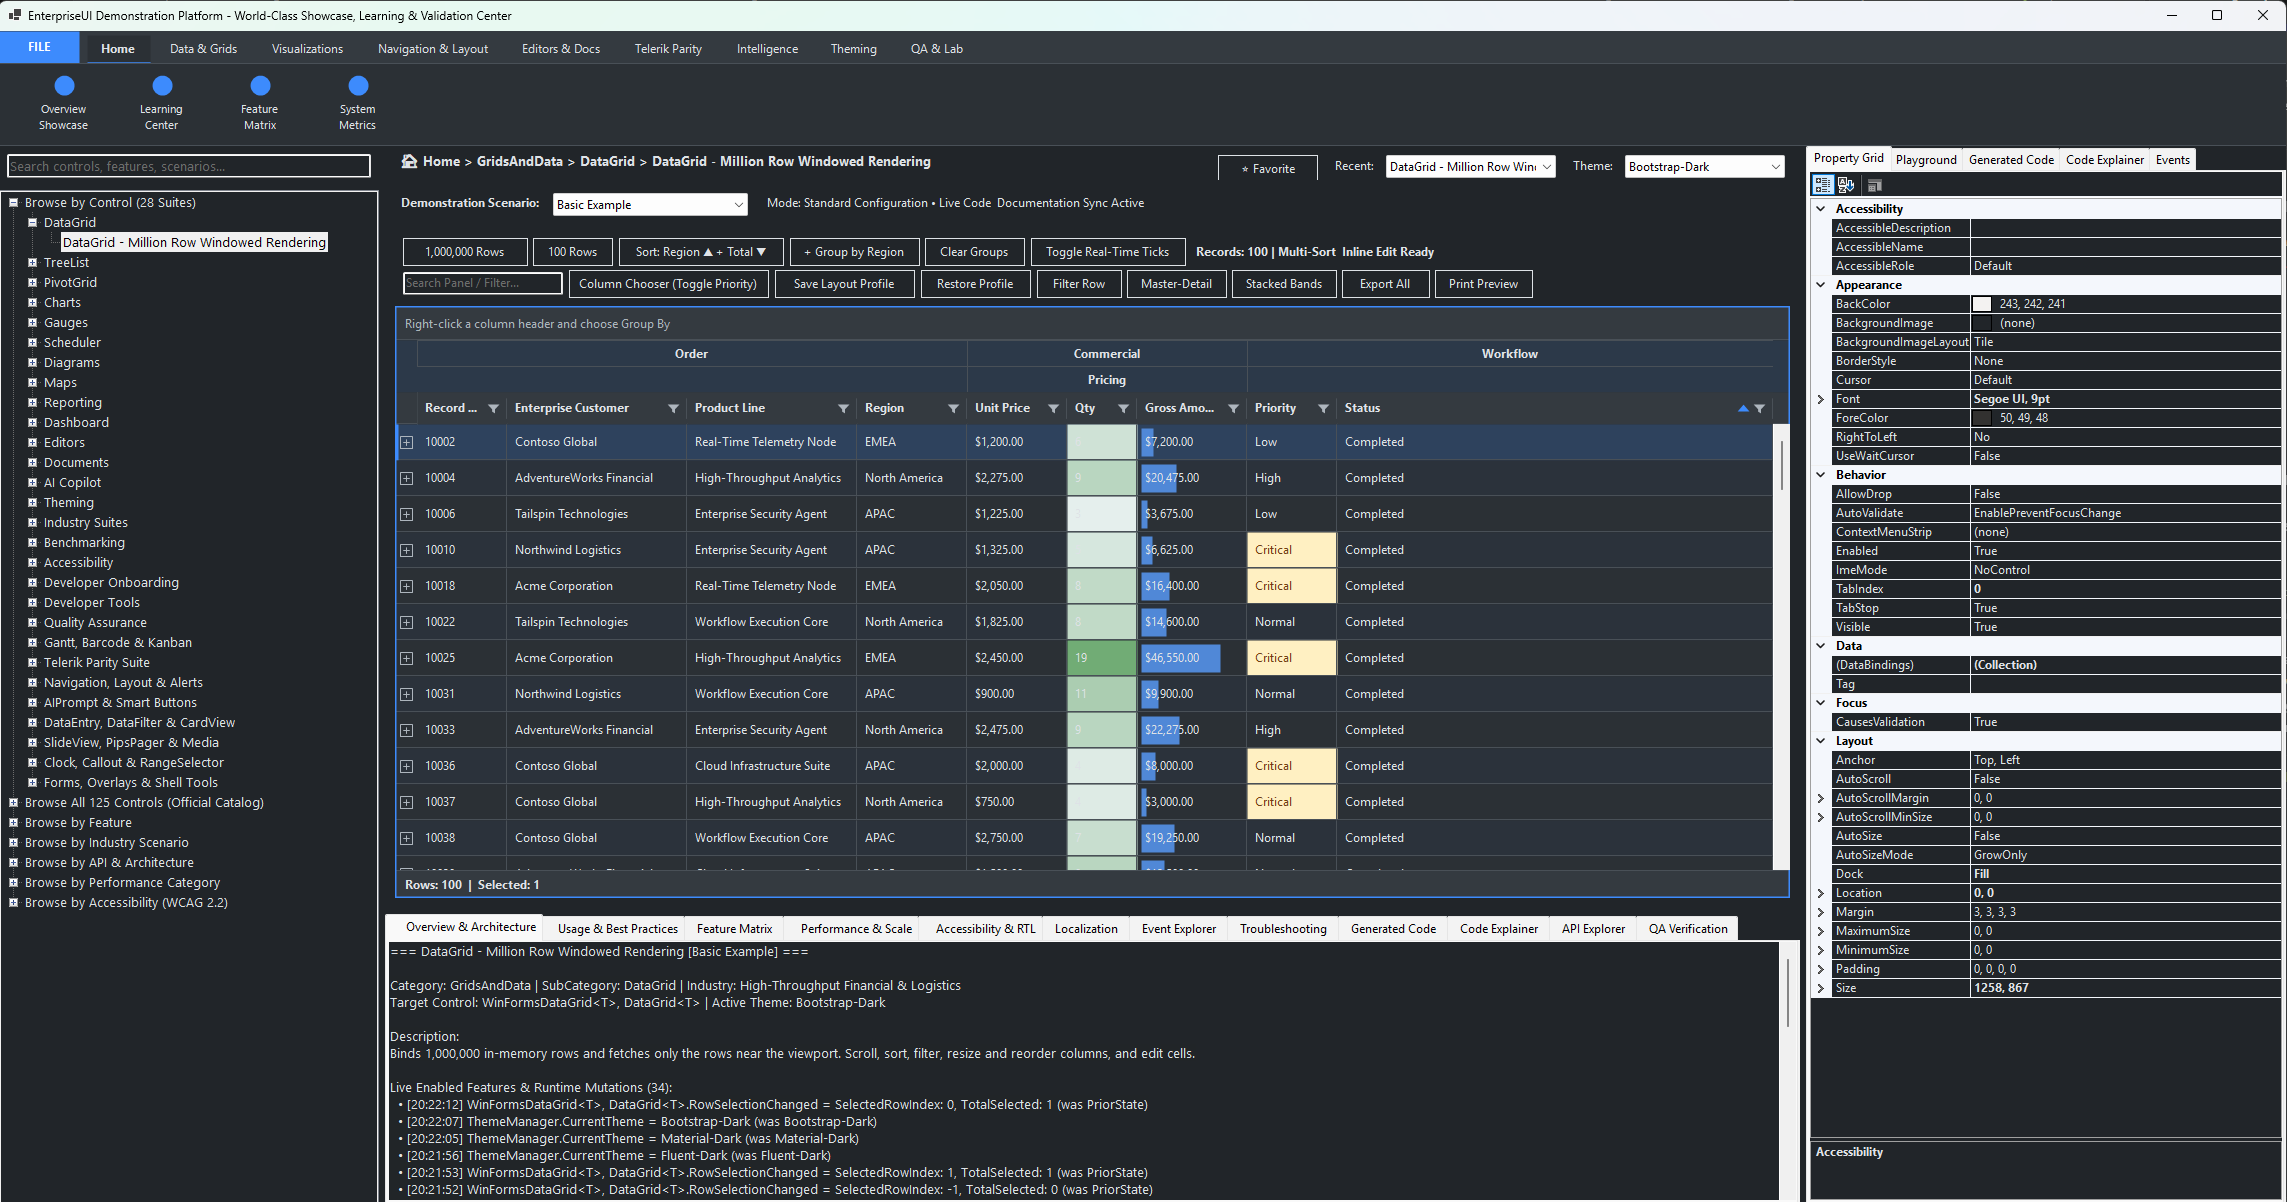
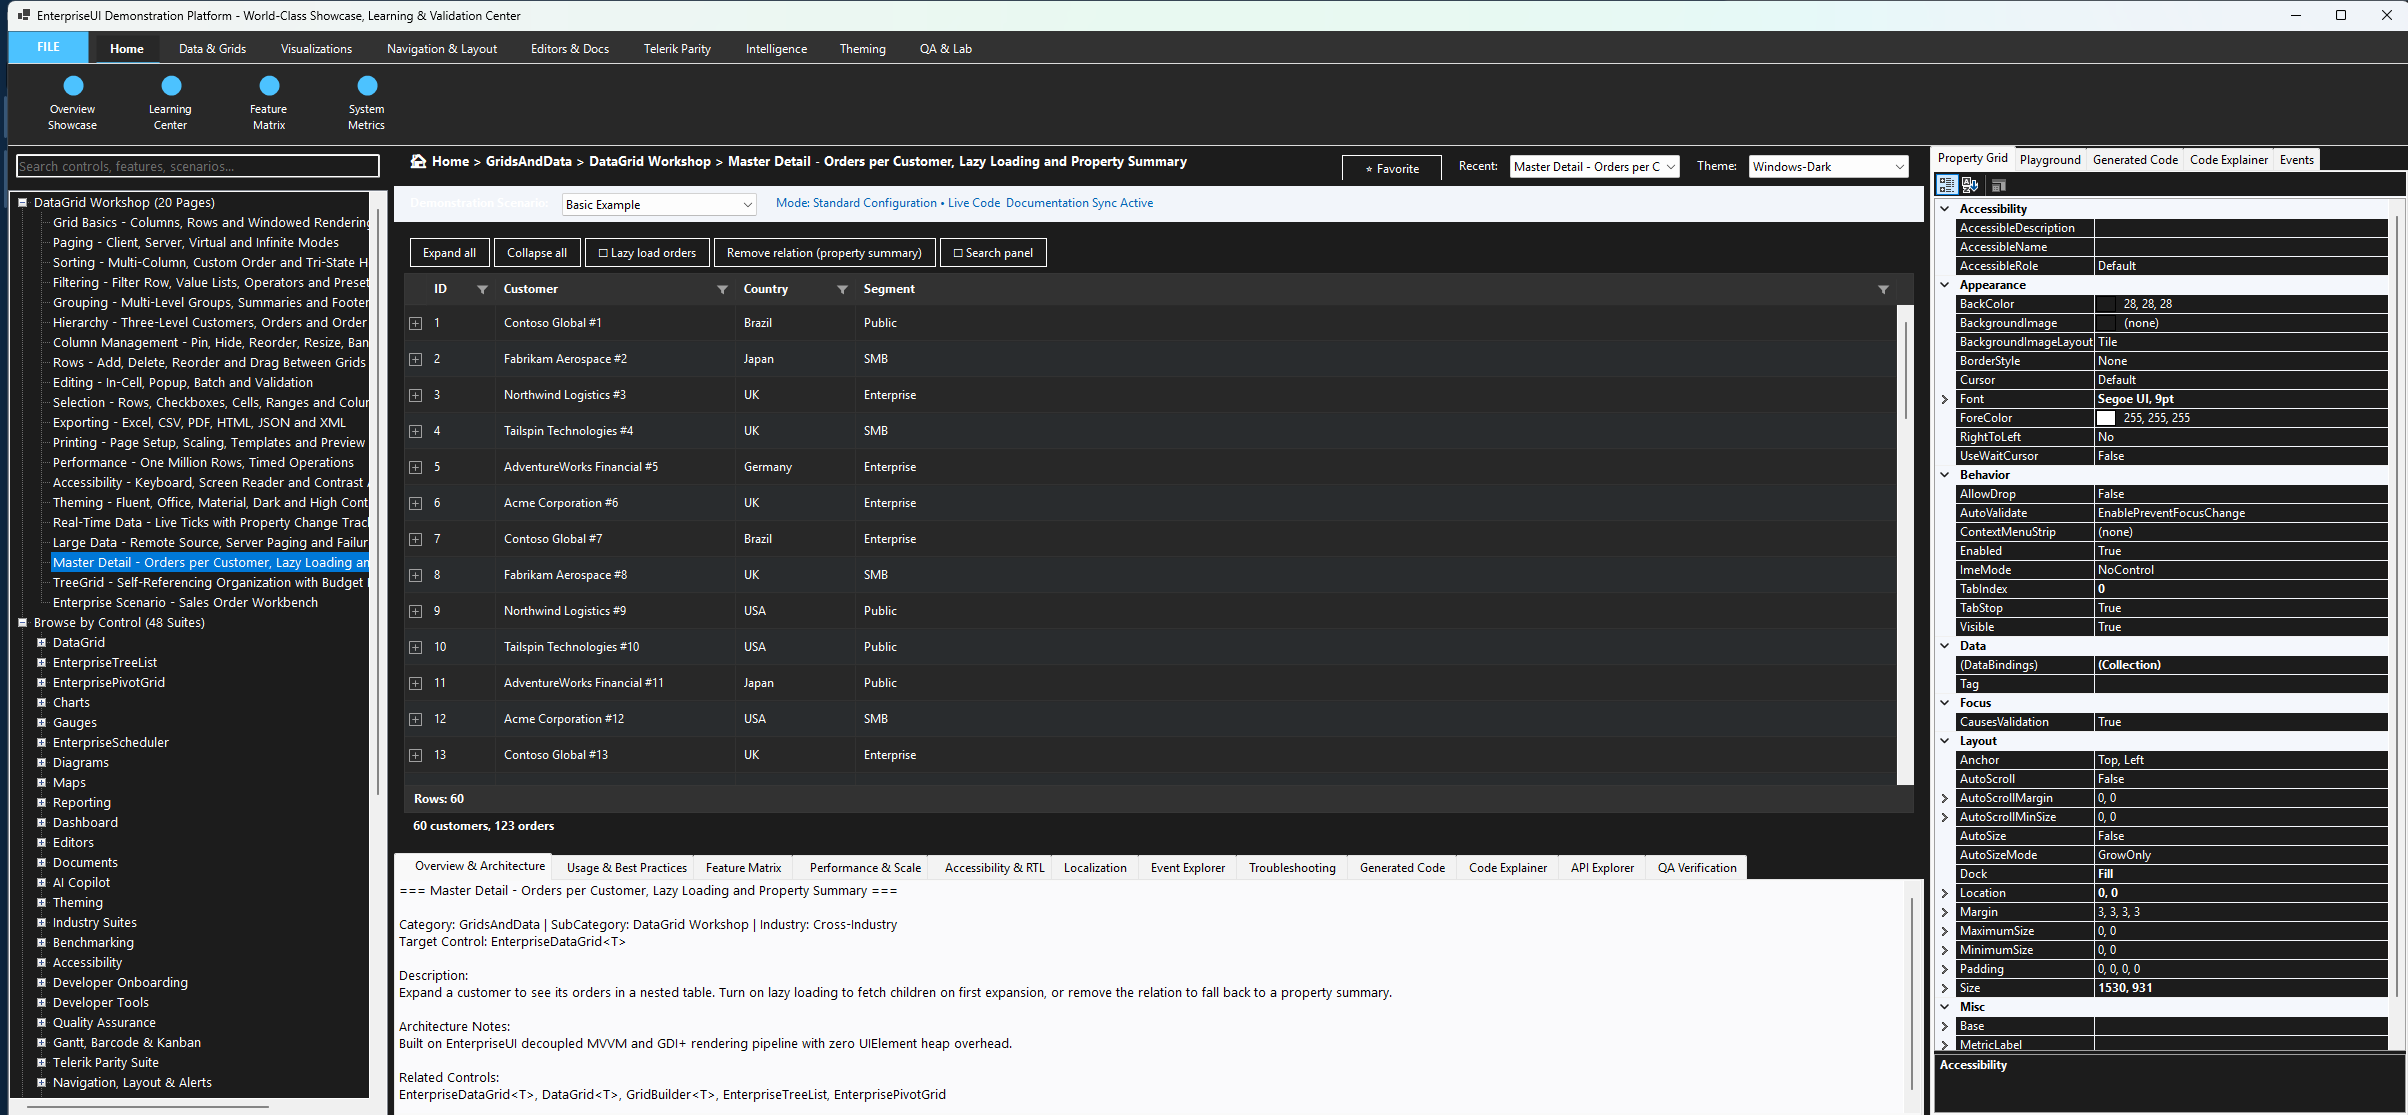
Add packaging details and resources for EnterpriseUI WinForms

diff --git a/platforms/EnterpriseUI.WinForms/Packaging/README.md b/platforms/EnterpriseUI.WinForms/Packaging/README.md
@@ -1,0 +1,84 @@
+# EnterpriseUI WinForms
+
+## EnterpriseDataGrid for .NET 8
+
+Build data-intensive Windows desktop applications with `EnterpriseDataGrid<TItem>`, a typed Windows Forms grid backed by a separate data engine and DPI-aware GDI+ rendering.
+
+Query, edit, explore, export, and print your data in one control. Windowed rendering draws rows near the viewport rather than creating a UI control for every record.
+
+## Grid Capabilities
+
+- **Data and queries:** typed columns, data binding, paging, multi-column sorting, filtering, grouping, and search highlighting.
+- **Editing:** in-cell and popup editors, validation, and undo/redo.
+- **Structured data:** master-detail expansion, tree hierarchy, column bands, and summaries.
+- **Everyday workflows:** row, cell, and column selection; column resizing, reordering, pinning, and a column chooser.
+- **Output:** CSV, JSON, XML, HTML, XLSX, and PDF export, plus printing and print preview.
+- **Presentation:** theme-derived colors, conditional formatting, and layout persistence.
+- **Accessibility:** keyboard navigation, focus indicators, Windows high-contrast integration, and UI Automation support.
+
+## Install
+
+Requires a Windows Forms application targeting `net8.0-windows` or a compatible newer Windows target, with `UseWindowsForms` enabled.
+
+For the local package feed:
+
+```powershell
+dotnet add YourApp.csproj package EnterpriseUI.WinForms --version 1.0.0 --source C:\LocalNugetPackages
+```
+
+NuGet restores the required EnterpriseUI component packages alongside the WinForms package.
+
+## Quick Start
+
+Add this control to a Windows Forms form:
+
+```csharp
+using System.Windows.Forms;
+using EnterpriseUI.WinForms;
+
+public sealed record SalesRow(int Id, string Customer, decimal Total);
+
+public sealed class MainForm : Form
+{
+    public MainForm()
+    {
+        Text = "Sales";
+        Width = 1000;
+        Height = 600;
+
+        var grid = GridBuilder<SalesRow>.Create()
+            .Label("Sales records")
+            .Column(nameof(SalesRow.Id), "Order", 90d)
+            .Column(nameof(SalesRow.Customer), "Customer", 240d)
+            .Column(nameof(SalesRow.Total), "Total", 140d,
+                column => column.FormatString = "C2")
+            .DataSource(new[]
+            {
+                new SalesRow(1001, "Contoso", 1250m),
+                new SalesRow(1002, "Fabrikam", 2840m)
+            })
+            .Build();
+
+        grid.Dock = DockStyle.Fill;
+        Controls.Add(grid);
+    }
+}
+```
+
+## Package Scope
+
+`EnterpriseDataGrid` is included in the shared `EnterpriseUI.WinForms` assembly, not a standalone grid-only package. The package also contains the WinForms editors, navigation, layout, visualization, and other controls; its companion packages provide the underlying component engines.
+
+## Documentation and Samples
+
+The source distribution contains grid guides in `docs/Grid` and an interactive Windows Forms demonstration application in `samples/EnterpriseUI.WinFormsDemo`.
+
+From a source checkout, launch the demo:
+
+```powershell
+dotnet run --project samples/EnterpriseUI.WinFormsDemo/EnterpriseUI.WinFormsDemo.csproj
+```
+
+## License
+
+Licensed under **Apache-2.0**, for personal and commercial use. No license keys or activation are required.
